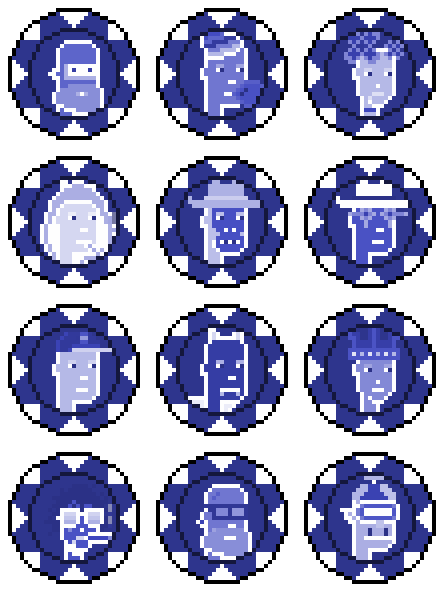
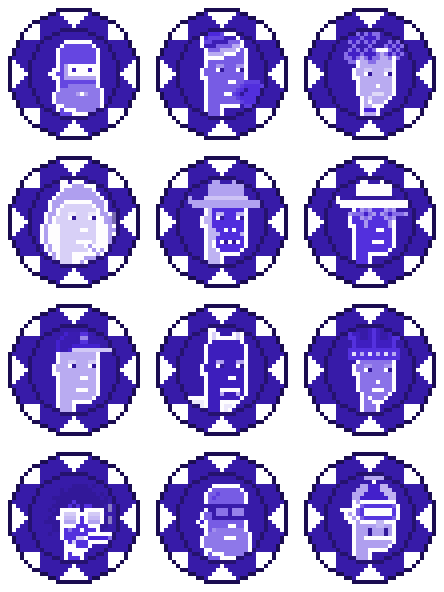
up

diff --git a/bluechip/bluechip.rb b/bluechip/bluechip.rb
@@ -34,7 +34,7 @@ end
 
 
 
-CHIP_BASE    =   Color.from_hex( '#2E358D' )
+CHIP_BASE    =   Color.from_hex( '#371BA8' )
 CHIP_PALETTE =   gen_palette(  CHIP_BASE )
 
 img = ImagePalette8bit.new( CHIP_PALETTE, size: 4 )
